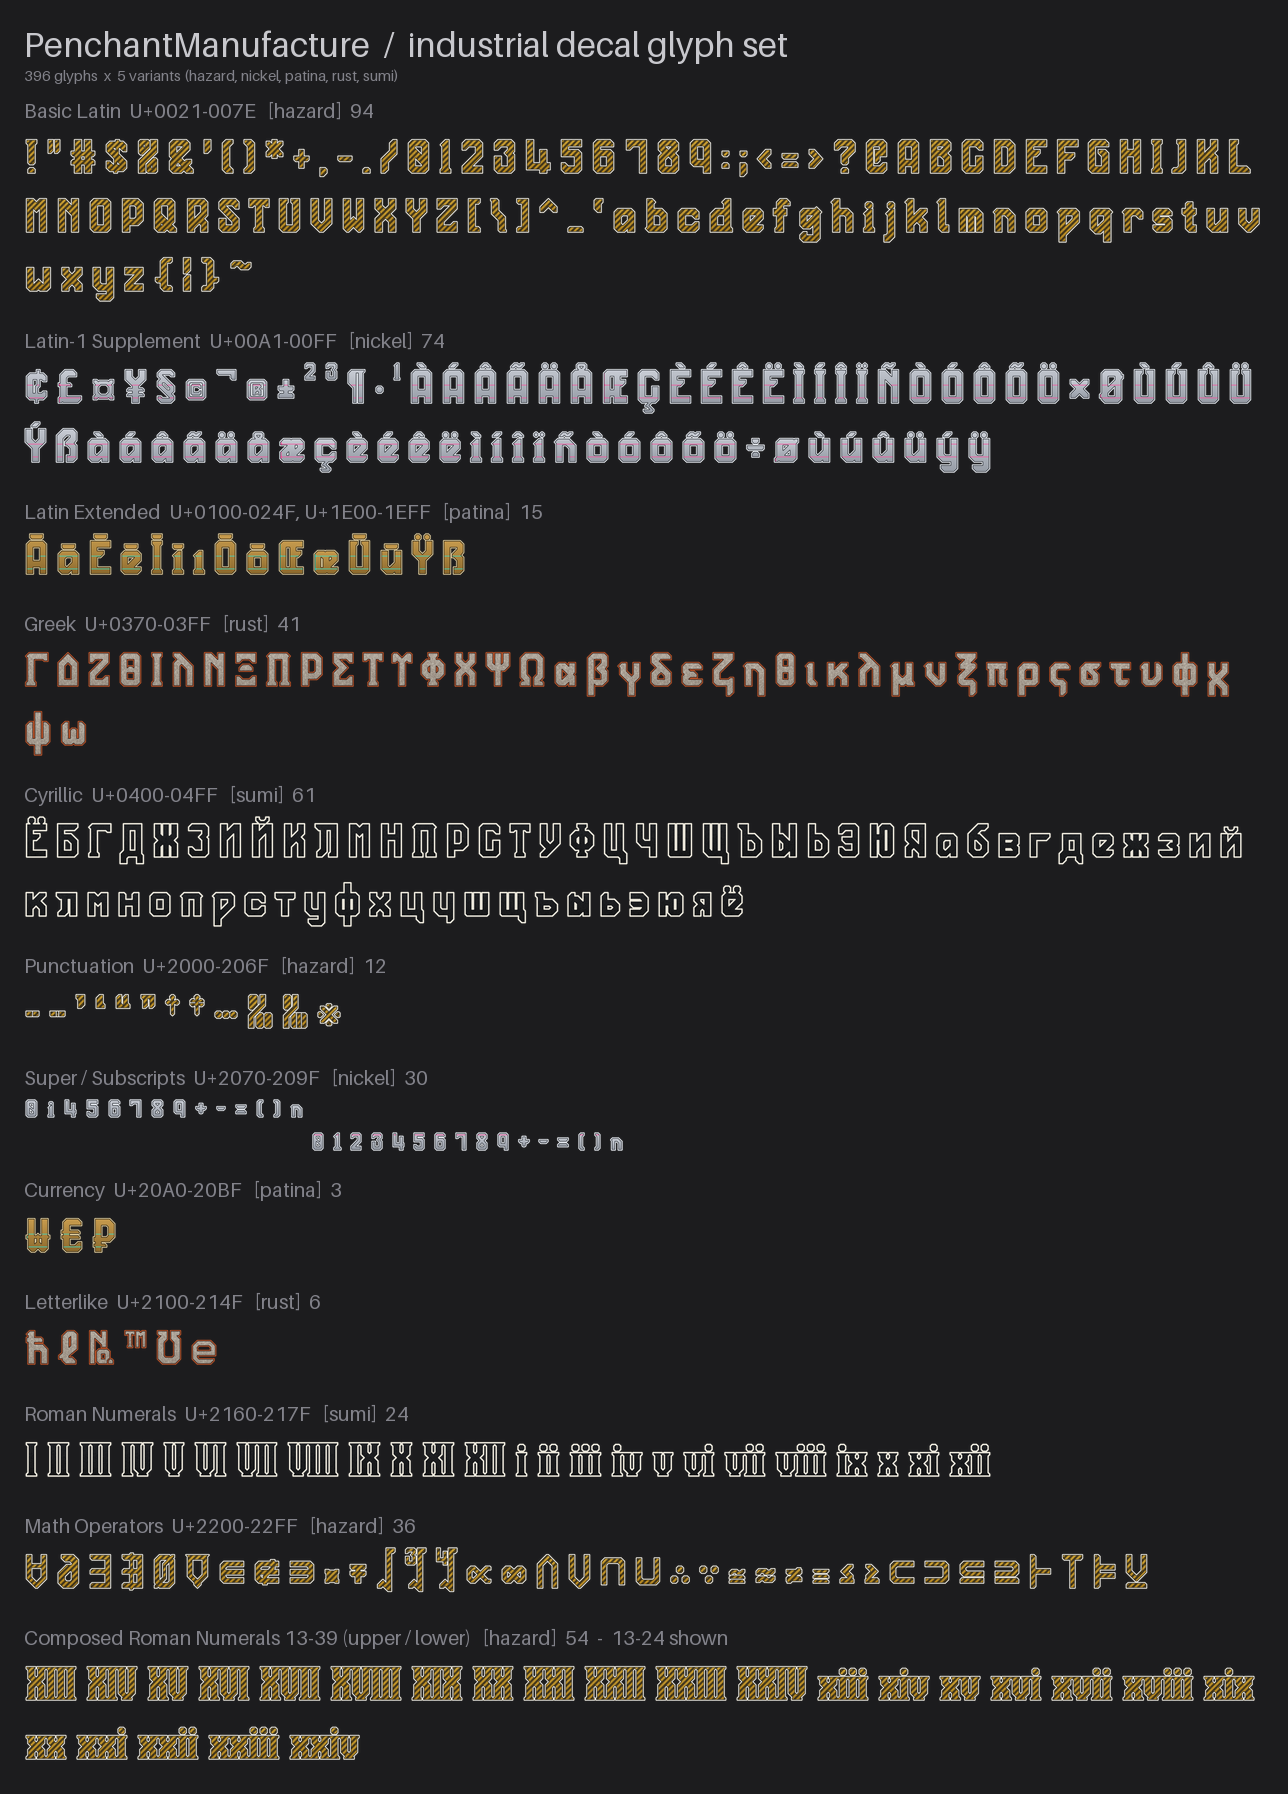
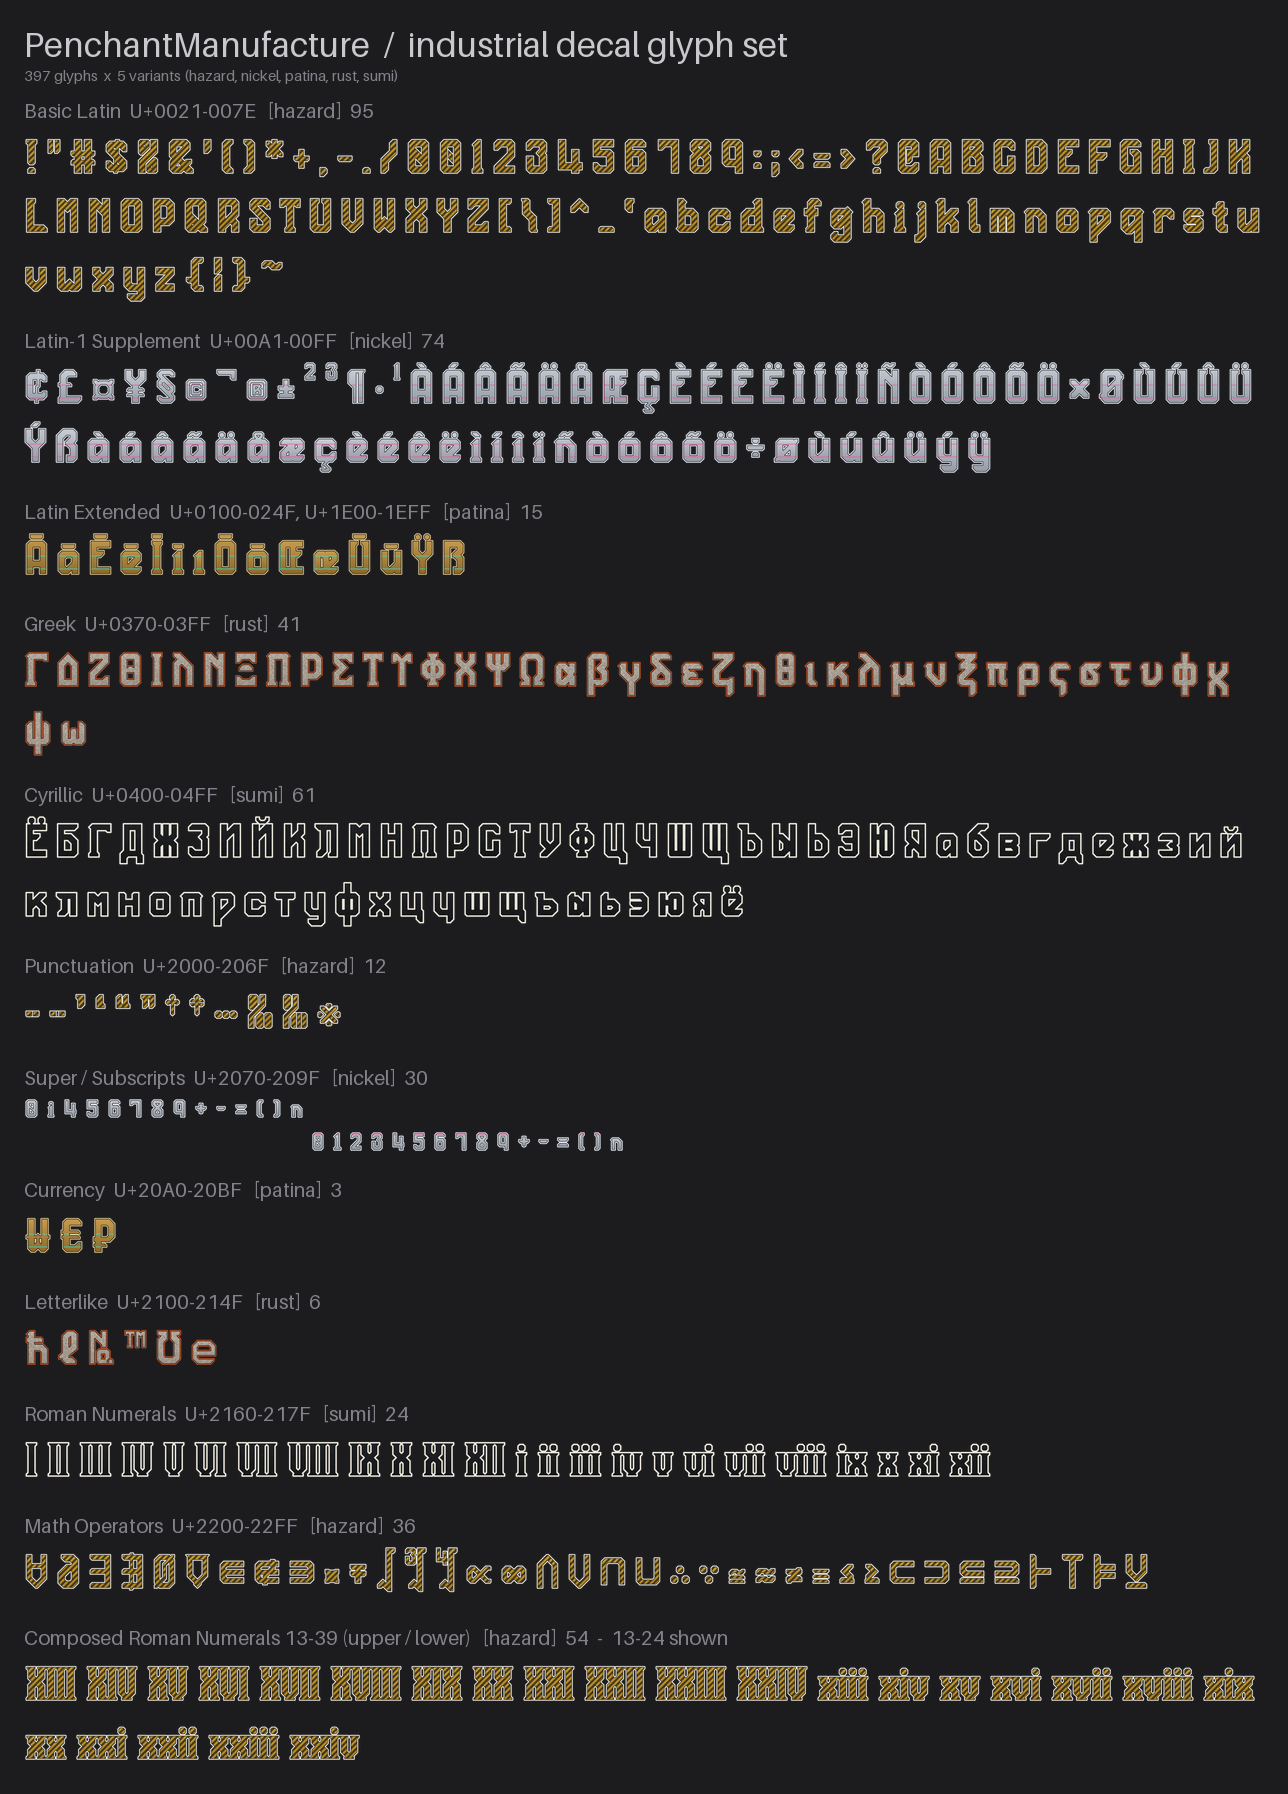
feat(glyphs): 数字 0 の別字形（numeral 形 n0n）をバリアント OTF から収録
- assets/fonts に PenchantManufacture-zero-numeral.otf を同梱（旧 v4.1-alpha。本体との差は 0 の 1 字のみ）
- extract_glyphs: VARIANT_FONTS の別字形を char_zero_numeral_0030 として追加抽出
- glyph_tokens: GLYPH_VARIANT_TOKENS（zero_numeral → n0n）と ZERO_STYLES を追加
- aiscript: 「0 の字形」の選択を追加（zero_styles は自動生成）。対応表の並びを OS に依存しない順に固定
- 絵文字 2252 → 2257 点。既存 PNG は画素不変のため含めない（glyphset プレビューのみ更新）
- AGENTS.md / README / docs の点数と記述を更新

Claude-Session: https://claude.ai/code/session_018GigKXWYxwr11hiU7L3GUf

Changed region(s): [[0.0, 0.0624, 0.9938, 0.1873]]

diff --git a/scripts/generate_aiscript.py b/scripts/generate_aiscript.py
@@ -11,6 +11,7 @@
 - ``roman_ligatures``: ローマ数字の並び → 合成トークン（``rom13``〜``lrom39``）
 - ``roman_max_length``: 上記キーの最大長
 - ``variants``       : バリアント選択肢（``VARIANT_JP`` / ``VARIANT_SUFFIX``）
+- ``zero_styles``    : 「0 の字形」選択肢（``ZERO_STYLES``。収録済みの字形だけ）
 
 グリフを追加したら ``python scripts/build.py``（または ``--step aiscript``）を実行し、
 生成された ``.is`` をコミットすること。
@@ -35,8 +36,10 @@ from build_misskey_zip import (  # noqa: E402
     _parse_stem,
 )
 from glyph_tokens import (  # noqa: E402
+    GLYPH_VARIANT_TOKENS,
     VARIANT_JP,
     VARIANT_SUFFIX,
+    ZERO_STYLES,
     glyph_token,
     roman_token,
 )
@@ -108,11 +111,14 @@ def character_map() -> dict[str, str]:
         if len(char) == 1 and char.isprintable():
             table.setdefault(char, token)
 
-    for png in sorted(src_dir.glob(f"char_*_{SIZE}.png")):
+    # 名前（文字列）で並べる。Path のままだと Windows だけ大小無視の順になり、表の並びが OS で変わる。
+    for png in sorted(src_dir.glob(f"char_*_{SIZE}.png"), key=lambda p: p.name):
         stem = png.stem[: -(len(str(SIZE)) + 1)]
         if stem in skip_stems:
             continue
         agl, _cp, char = _parse_stem(stem)
+        if agl in GLYPH_VARIANT_TOKENS:
+            continue    # 別字形は文字からは引かない（zero_styles の選択で差し替える）
         token = glyph_token(char, agl)
         put(char, token)
         for al in aliases_map.get(stem, {}).get("aliases", []):
@@ -130,6 +136,15 @@ def character_map() -> dict[str, str]:
     if bad:
         raise click.ClickException(f"不正な字体トークン: {bad}（glyph_tokens.py を確認）")
     return table
+
+
+def zero_styles() -> dict[str, str]:
+    """「0 の字形」選択肢（字体トークン → 表示名）。収録済みの字形だけを載せる。"""
+    found: set[str] = set()
+    for png in (DECAL_DIST / REFERENCE_VARIANT).glob(f"char_zero_*_{SIZE}.png"):
+        agl, _cp, char = _parse_stem(png.stem[: -(len(str(SIZE)) + 1)])
+        found.add(glyph_token(char, agl))
+    return {token: label for token, label in ZERO_STYLES.items() if token in found}
 
 
 def neutral_tokens() -> list[str]:
@@ -193,6 +208,12 @@ def _render_blocks() -> dict[str, list[str]]:
             f"let roman_max_length = {max((len(k) for k in romans), default=1)}"
         ],
         "variants": ["let variants = [", *variants, "]"],
+        "zero_styles": [
+            "let zero_styles = [",
+            *(f'\t{{text: "{label}", value: "{token}"}}'
+              for token, label in zero_styles().items()),
+            "]",
+        ],
     }
 
 

diff --git a/scripts/extract_glyphs.py b/scripts/extract_glyphs.py
@@ -67,6 +67,14 @@ FONT_TITLE = "PenchantManufacture"
 # キリル U+0400–U+04FF は v3.1-release で全66字が確定したため除外を解除した。
 PENDING_RANGES: tuple[tuple[int, int, str], ...] = ()
 
+# ── 別字形フォント（同じコードポイントの差し替え字形） ──
+# (フォント, コードポイント, 別字形名)。本体フォントと同じメトリクス契約（win 帯）の
+# バリアント OTF から、その 1 字だけを ``char_{AGL}_{別字形名}_{CP}.svg`` として追加抽出する。
+# 字体トークンは glyph_tokens.GLYPH_VARIANT_TOKENS（``{AGL}_{別字形名}`` がキー）。
+VARIANT_FONTS: tuple[tuple[Path, int, str], ...] = (
+    (FONT_PATH.with_name("PenchantManufacture-zero-numeral.otf"), 0x0030, "numeral"),
+)
+
 _SAFE_RE = re.compile(r"[^A-Za-z0-9]+")
 
 
@@ -323,6 +331,33 @@ def extract_all(
         else:
             out_path.write_text(svg, encoding="utf-8")
             print(f"  OK: {out_path.name}  (glyph={glyph_name!r})")
+
+    # ── 別字形（バリアント OTF から 1 字ずつ追加抽出） ──
+    for variant_font, codepoint, variant_name in VARIANT_FONTS:
+        vt = ttLib.TTFont(str(variant_font))
+        glyph_name = vt.getBestCmap()[codepoint]
+        agl_name = f"{_agl_name(codepoint, glyph_name)}_{variant_name}"
+        svg = extract_glyph_svg(
+            glyph_name, vt.getGlyphSet(), vt["hmtx"].metrics, fit, upm, viewbox,
+            f"{FONT_TITLE} {_printable(codepoint)} ({variant_name})",
+        )
+        stem = f"char_{agl_name}_{codepoint:04X}"
+        seen_stems.add(stem)
+        canonical[stem] = {
+            "stem": stem,
+            "glyph": glyph_name,
+            "codepoint": f"U+{codepoint:04X}",
+            "char": _printable(codepoint),
+            "agl": agl_name,
+            "aliases": [],
+        }
+        out_path = out_dir / f"{stem}.svg"
+        produced.append(out_path)
+        if dry_run:
+            print(f"  DRY-RUN: {out_path.name}  (別字形: {variant_font.name})")
+        else:
+            out_path.write_text(svg, encoding="utf-8")
+            print(f"  OK: {out_path.name}  (別字形: {variant_font.name})")
 
     if pending_skipped:
         print()

diff --git a/scripts/glyph_tokens.py b/scripts/glyph_tokens.py
@@ -42,6 +42,21 @@ VARIANT_JP: dict[str, str] = {
 # 打鍵リズムが崩れない利点を優先する（SPEC §2.4 注記）。
 NEUTRAL_SUFFIX = "p"
 
+# ── 別字形（同じコードポイントの差し替え字形） ──
+# ステムの名前部 ``{AGL}_{別字形名}`` → 字体トークン（既定字のトークン＋別字形の 1 字）。
+# 抽出元のフォントは extract_glyphs.VARIANT_FONTS。
+#   n0n: 数字 0 の numeral 形。斜線が縁から離れて浮く字形で、英大文字 O との見分けを
+#        比較的重視しない場面向け（既定の n0 は斜線が縁につながり、O と明確に区別できる）。
+GLYPH_VARIANT_TOKENS: dict[str, str] = {
+    "zero_numeral": "n0n",
+}
+
+# 文字列コンバーターの「0 の字形」選択肢（字体トークン → 表示名）。先頭が既定。
+ZERO_STYLES: dict[str, str] = {
+    "n0": "標準（斜線が縁につながる）",
+    "n0n": "numeral（斜線が浮く）",
+}
+
 # ── ASCII 記号 → 2字略号（AGL名キー。SPEC §2.3 と一致） ──
 SYMBOL_TOKENS: dict[str, str] = {
     "hyphen": "hy", "period": "dt", "colon": "co", "slash": "sl",
@@ -351,6 +366,8 @@ def glyph_token(char: str, agl: str) -> str:
     Returns:
         字体トークン（例 'ua' / 'n2' / 'hy' / 'alpha' / 'cdelta' / 'sup2' / 'subn'）。
     """
+    if agl in GLYPH_VARIANT_TOKENS:
+        return GLYPH_VARIANT_TOKENS[agl]
     if len(char) == 1 and char.isascii():
         if char.isdigit():
             return f"n{char}"
@@ -458,6 +475,9 @@ def glyph_extra_aliases(char: str, agl: str) -> list[str]:
     Returns:
         追加エイリアスのリスト（該当しない字種では空）。
     """
+    if agl in GLYPH_VARIANT_TOKENS:
+        # 別字形は既定字の AGL 名（zero）でも引けるようにする。
+        return [agl.split("_")[0], "alt", "別字形"]
     token = SUPERSCRIPT_TOKENS.get(char)
     if token:
         return ["superscript", "上付き", f"sup_{token[len('sup'):]}"]

diff --git a/docs/AISCRIPT_CONVERTER.md b/docs/AISCRIPT_CONVERTER.md
@@ -17,7 +17,7 @@ PenchantManufacture 工業デカール絵文字の MFM に変換する Misskey A
 
 1. [`aiscript/penchant-string-converter.is`](../aiscript/penchant-string-converter.is)を開く。
 2. 内容全体をMisskeyのPlay、AiScript App、またはScratchpadへ貼り付ける。
-3. 実行後、文字列を入力してバリアントを選び、「変換」を押す。
+3. 実行後、文字列を入力してバリアントと「0 の字形」を選び、「変換」を押す。
 4. 「出力MFM」に表示された文字列をコピーしてノートなどで使用する。
 
 外部APIやアクセストークンは使用しません。
@@ -38,6 +38,16 @@ PenchantManufacture 工業デカール絵文字の MFM に変換する Misskey A
 スペーサだけはバリアント非依存で、常に `:gapp:`（半角スペース）/
 `:spcp:`（全角スペース）へ変換されます。
 
+## 0 の字形
+
+数字 `0` は 2 つの字形を収録しており、プルダウンで変換先を選べます
+（`scripts/glyph_tokens.py` の `ZERO_STYLES` が正）。上付き `⁰`・下付き `₀` には影響しません。
+
+| 表示名 | 字体トークン | 例（墨） | 字形 |
+| --- | --- | --- | --- |
+| 標準（既定） | `n0` | `:n0p:` | 斜線が縁につながる。英大文字 `O` と明確に区別できる |
+| numeral | `n0n` | `:n0np:` | 斜線が縁から離れて浮く。`O` との見分けを比較的重視しない場面向け |
+
 ## 変換仕様
 
 - 収録文字は対応する工業デカール絵文字のMFM（例: `:uap:`）へ変換します。
@@ -54,7 +64,7 @@ $[fg.color=f44 **エラー: N文字目「文字」に該当するカスタム絵
 
 ## 対応表の更新（自動生成）
 
-`let character_map` から `let variants` までの**データ部は自動生成**です。手で編集せず、
+`let character_map` から `let zero_styles` までの**データ部は自動生成**です。手で編集せず、
 グリフを追加・改名したら次を実行して再生成し、生成結果をコミットしてください。
 
 ```bash

diff --git a/docs/EMOJI_TECHCODE_SPEC.md b/docs/EMOJI_TECHCODE_SPEC.md
@@ -65,6 +65,7 @@ Misskey の補完 UI で数百字を 1 字ずつ選ぶのは非現実的。**名
 | 字種 | マーカー | トークン例 | 備考 |
 | --- | --- | --- | --- |
 | 数字 0–9 | `n` (number) | `n0`…`n9` | |
+| 数字の別字形 | 既定字のトークン＋別字形 1 字 | `n0n`（`0` の numeral 形） | 斜線が縁から離れて浮く字形。`O` との見分けを比較的重視しない場面向け。既定の `n0` と並存する（`glyph_tokens.GLYPH_VARIANT_TOKENS`） |
 | 英小文字 a–z | `l` (lower) | `la`…`lz` | |
 | 英大文字 A–Z | `u` (upper) | `ua`…`uz` | 小文字のみ環境でも大小を保持 |
 | ラテン拡張（分音記号付き） | `u`/`l`＋基底字＋記号2字 | `uadi`(Ä) `ladi`(ä) `leac`(é) `lomc`(ō) | 固定4字。下表の記号コードを後置 |
@@ -213,7 +214,7 @@ Misskey の補完 UI で数百字を 1 字ずつ選ぶのは非現実的。**名
 
 ## 3. Discord 運用の補足
 
-- 396字 × 5バリアント = 1980 点は Discord の点数上限を大きく超える。**既定バリアント（墨）396 点**を
+- 397 点（396字＋`0` の別字形）× 5バリアント = 1985 点は Discord の点数上限を大きく超える。**既定バリアント（墨）397 点**を
   基準とし、サーバのブースト段階・複数サーバ分割で運用する。
 - 名前は `..p`（小文字・2字以上）で Discord 規則も同時に満たすため、**Misskey とワンソースで両対応**できる。
 - **合成ローマ数字 13〜39（`rom13`〜/`lrom13`〜）は Misskey 専用**。横長字面が Discord の

diff --git a/docs/GLYPH_EXTENSION_PLAN.md b/docs/GLYPH_EXTENSION_PLAN.md
@@ -31,13 +31,13 @@
 
 ### 0-1. 絵文字点数の上限
 
-**Misskey 3500 点**を上限とする。現行 2252 点（396 字 × 5 ＋ 合成ローマ数字 54 × 5 ＋ スペーサ 2）。
-本計画の収録予定 46 字を加えて **2482 点**、凍結枠（C2 15 ／ P2c 14 ／ P7b 20）を将来解凍しても
-2727 点で収まる。Misskey は zip 一括インポートのため登録の手間は点数に比例しないが、
+**Misskey 3500 点**を上限とする。現行 2257 点（（396 字 ＋ `0` の別字形 1）× 5 ＋ 合成ローマ数字 54 × 5 ＋ スペーサ 2）。
+本計画の収録予定 46 字を加えて **2487 点**、凍結枠（C2 15 ／ P2c 14 ／ P7b 20）を将来解凍しても
+2732 点で収まる。Misskey は zip 一括インポートのため登録の手間は点数に比例しないが、
 ピッカーの一覧性とサーバーストレージのために上限を明示する。
 
 > 46 字のうち `⌀`(`dia`) は `Ø`(`uosk`) と描画一致統合される可能性があり、統合時は
-> 45 字 / 225 点 / **2477 点**となる（`dedupe_renders` がビルド時に機械判定）。
+> 45 字 / 225 点 / **2482 点**となる（`dedupe_renders` がビルド時に機械判定）。
 
 ### 0-2. 画像アスペクト比の量子化 — **凍結（2026-09-08）**
 

diff --git a/.github/copilot-instructions.md b/.github/copilot-instructions.md
@@ -55,7 +55,7 @@ _exported-dist/*.zip                ← エクスポートzip（.gitignore対象
 - `_original-fonts/` 内ファイルの変更・削除
 - 第三者フォントのグリフパス使用
 - `dist/` `svg2png/` への直接ファイル配置
-- `aiscript/*.is` のデータ部（`let character_map` 〜 `let variants`）の手編集
+- `aiscript/*.is` のデータ部（`let character_map` 〜 `let zero_styles`）の手編集
   （`python scripts/build.py --step aiscript` で再生成する）
 - ライセンス表記の削除・改ざん
 
